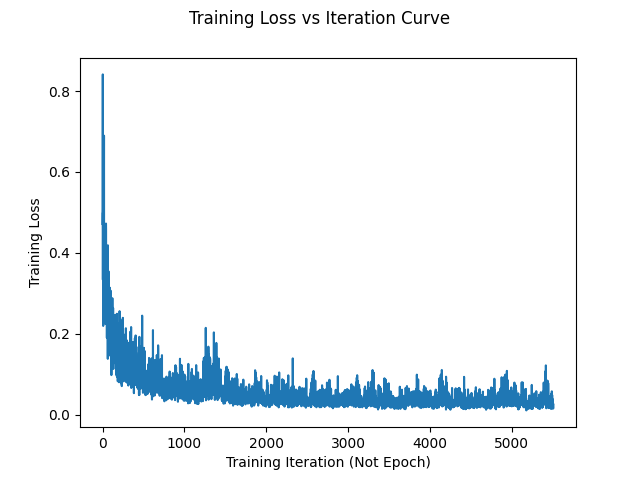
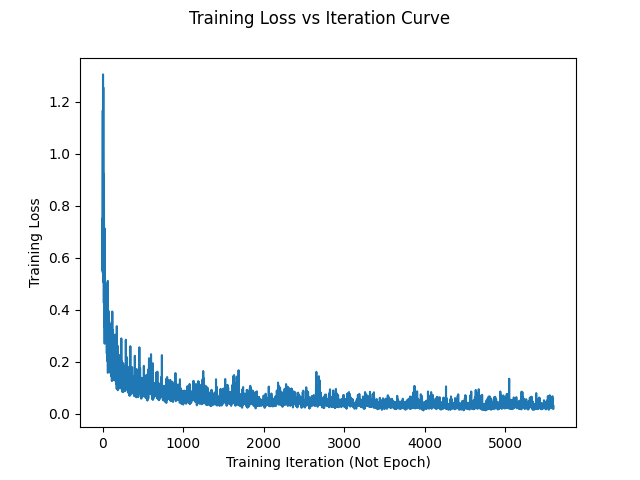
Added plotting and evaluation (sample prediction and saving). For 1 min 27 seconds on a training set of ~80, the model performs unbelievably good

diff --git a/Custom_Segmentation/train.py b/Custom_Segmentation/train.py
@@ -11,6 +11,8 @@ import matplotlib.pyplot as plt
 from src.load import load_and_split
 from src.model import SegmentAE, SegmentUNet
 from src.SegNet import SegNet, load_model_json
+from src.plot import plot_loss
+from src.eval import eval_sample
 
 def main():
     # Parse Arguments
@@ -24,7 +26,12 @@ def main():
     data_folder = '../Skin_Anatomical_Image_Dataset/simple_image_config'
     train, validation, test = load_and_split(data_folder)
     
-    # Create model
+    # Create model + parameters
+
+    epochs = 100
+    train_losses = []
+    test_losses = []
+    device = torch.device("cuda:0" if torch.cuda.is_available() else "cpu")
 
     if args.model == 'AE':
         model = SegmentAE()
@@ -33,11 +40,15 @@ def main():
     elif args.model == 'SegNet':
         model_json = load_model_json()
         model = SegNet(in_chn=model_json['in_chn'], out_chn=model_json['out_chn'], BN_momentum=model_json['bn_momentum'])
-        train_model(model, train[0], train[1], test[0], test[1], model_json)
+        train_losses, test_losses = train_model(model, train[0], train[1], test[0], test[1], epochs, device, model_json)
 
-def train_model(model, train_data, train_labels, test_data, test_labels, model_json=None):
+    # Evaluate model
+    plot_loss(train_losses, 'Training Loss vs Iteration Curve', 'Training Iteration (Not Epoch)', 'Training Loss', filename=f'media/training_vs_{epochs}_image_iterations.png')
+    plot_loss(test_losses, 'Testing Loss vs Iteration Curve', 'Iteration (Not Epoch)', 'Testing Loss', filename=f'media/testing_vs_{len(test_losses)}_image_iterations.png')
 
-    epochs = 100
+    eval_sample(model, test, device, folder_to_create="sample_test_predictions/")
+
+def train_model(model, train_data, train_labels, test_data, test_labels, epochs, device, model_json=None):
     
     optimizer = optim.SGD(model.parameters(), lr=model_json['learning_rate'], momentum=model_json['sgd_momentum'])
     # loss_fn = nn.CrossEntropyLoss(weight=torch.tensor(model_json['cross_entropy_loss_weights']))
@@ -46,12 +57,11 @@ def train_model(model, train_data, train_labels, test_data, test_labels, model_j
     test_loss_save = []
     loss = None
 
-    device = torch.device("cuda:0" if torch.cuda.is_available() else "cpu")
     model.to(device) # cuda()
     loss_fn.to(device) # cuda()
 
     # Training Loop
-    for e in tqdm(range(epochs)):
+    for _ in tqdm(range(epochs)):
         
         # Because training samples don't fit in memory, do each one individually
         for i in range(train_data.shape[0]):            
@@ -68,35 +78,21 @@ def train_model(model, train_data, train_labels, test_data, test_labels, model_j
             # del d, predict
             # torch.cuda.empty_cache()
         
-        if e % 10 == 0:
-            loss_save.append(loss.item())
+        loss_save.append(loss.item())
 
-            # Perform test or validation loss:
-            model.eval()
-            with torch.no_grad():
-                average_loss = 0
-                for i in range(test_data.shape[0]):
-                    d = torch.tensor(np.expand_dims(train_data[i], axis=0)).float().to(device)
-                    predict = model(d)
-                    loss = loss_fn(predict, torch.tensor(np.expand_dims(np.expand_dims(train_labels[i][0,:,:], axis=0), axis=0)).float().to(device))
-                    average_loss += loss.item()
-                test_loss_save.append(average_loss/test_data.shape[0])
-            model.train()
+        # Perform test or validation loss:
+        model.eval()
+        with torch.no_grad():
+            average_loss = 0
+            for i in range(test_data.shape[0]):
+                d = torch.tensor(np.expand_dims(train_data[i], axis=0)).float().to(device)
+                predict = model(d)
+                loss = loss_fn(predict, torch.tensor(np.expand_dims(np.expand_dims(train_labels[i][0,:,:], axis=0), axis=0)).float().to(device))
+                average_loss += loss.item()
+            test_loss_save.append(average_loss/test_data.shape[0])
+        model.train()
 
-
-    fig, ax = plt.subplots( nrows=1, ncols=1 )  # create figure & 1 axis
-    ax.plot(np.arange(len(loss_save)), loss_save)
-    fig.suptitle('Training Loss vs Iteration Curve', fontsize='large')
-    ax.set_xlabel('Training Iteration (Not Epoch)', fontsize='medium')
-    ax.set_ylabel('Training Loss', fontsize='medium')
-    fig.savefig(f'media/training_vs_{epochs}_image_iterations.png')   # save the figure to file
-
-    fig, ax = plt.subplots( nrows=1, ncols=1 )  # create figure & 1 axis
-    ax.plot(np.arange(len(test_loss_save)), test_loss_save)
-    fig.suptitle('Testing Loss vs Iteration Curve', fontsize='large')
-    ax.set_xlabel('v Iteration (Not Epoch)', fontsize='medium')
-    ax.set_ylabel('Testing Loss', fontsize='medium')
-    fig.savefig(f'media/testing_vs_{epochs}_image_iterations.png')   # save the figure to file
+    return loss_save, test_loss_save
 
 if __name__ == "__main__":
     main()

diff --git a/Custom_Segmentation/src/eval.py b/Custom_Segmentation/src/eval.py
@@ -1,8 +1,35 @@
+import os
 import torch
+import numpy as np
+
+from src.plot import save_prediction
 
 '''
 Given a single input image path, and a model .pth file, predict the mask and show in opencv (and save)
+
+Note that test_data is given in the form: (image_np_array, label_np_array)
 '''
 
-def eval_single(img_path, model_path):
-    pass
+def eval_sample(model, test_data, device, folder_to_create, sample_size=10):
+    
+    # Extract a sample of test data images:
+    
+    img_indeces = np.random.choice(test_data[0].shape[0], sample_size)
+    imgs = [test_data[0][i, :, :] for i in img_indeces]
+
+    # Make predictions
+
+    model.eval()
+    segmented_imgs = [np.squeeze(model(torch.tensor(np.expand_dims(img, axis=0)).float().to(device)).detach().cpu().numpy()) for img in imgs]
+    model.train()
+    
+    # Make output directory
+
+    folder_to_create = "media/" + folder_to_create
+    if not os.path.exists(folder_to_create):
+        os.makedirs(folder_to_create)
+
+    # Save images
+
+    for i in range(len(imgs)):
+        save_prediction(imgs[i].transpose(1,2,0), segmented_imgs[i], folder_to_create + "image_" + str(i) + ".png")

diff --git a/Custom_Segmentation/src/plot.py b/Custom_Segmentation/src/plot.py
@@ -1,0 +1,28 @@
+import matplotlib.pyplot as plt
+import numpy as np
+import cv2
+
+def plot_loss(y, title, xlabel, ylabel, filename=None):
+    fig, ax = plt.subplots( nrows=1, ncols=1 )  # create figure & 1 axis
+    ax.plot(np.arange(len(y)), y)
+    fig.suptitle(title, fontsize='large')
+    ax.set_xlabel(xlabel, fontsize='medium')
+    ax.set_ylabel(ylabel, fontsize='medium')
+
+    if filename:
+        fig.savefig(filename)   # save the figure to file
+
+def save_prediction(img, segmented, filename):
+
+    # The segmented image will be 2d ... augment it to have 3 dimensions
+    segmented = np.repeat(segmented[:, :, np.newaxis], 3, axis=2)
+
+    # The image will be normalized, put back to 0-255 range
+    segmented = cv2.normalize(segmented, None, alpha = 0, beta = 255, norm_type = cv2.NORM_MINMAX, dtype = cv2.CV_32F).astype(np.uint8)
+    img = cv2.normalize(img, None, alpha = 0, beta = 255, norm_type = cv2.NORM_MINMAX, dtype = cv2.CV_32F).astype(np.uint8)
+
+    # Concatenate img and segmented
+    img_concat = np.concatenate((img,segmented), axis=1)
+
+    # Save image
+    cv2.imwrite(filename, img_concat)
